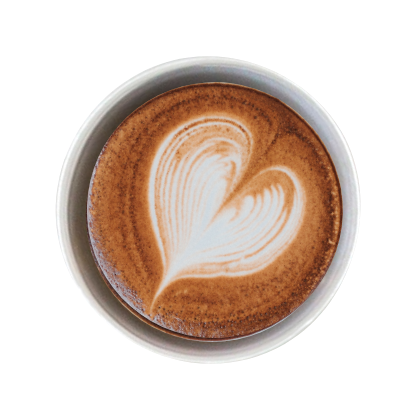
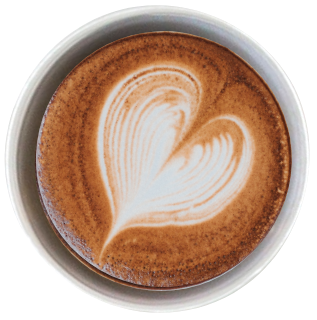
Add image and menu link

diff --git a/about.html b/about.html
@@ -58,32 +58,57 @@
         </div>
       </nav>
     </header>
-    <main class="content container-md px-0">
-      <h1 class="h1 page-title text-center pt-utility-lg py-5">About</h1>
-      <div class="container">
-        <div class="row d-flex justify-content-center ">
-        <div class="video">
-          <video width="100%" height="100%" controls muted>
-            <source src="videos/southbrew.mp4" type="video/mp4">
-            Your browser does not support the video tag.
-          </video>
-        </div>
-      </div>
-        <div class="row d-flex justify-content-center about">
-          <div class="col">
-            <img src="images/location.jpg" alt="Southbrew Coffee Storefront" title="Southbrew Coffee Storefront" id="location">
-          </div>
-          <div class="col">
-            <p class="about-accent">Southbrew is a <span class="accent">local, woman-owned</span> coffee stand and specialty roaster in Huntsville, Alabama.</p>
-            <p class="about-accent">We strive toward <span class="accent">consistency</span> in our products, genuine <span class="accent">connections</span> with our customers, and meaningful <span class="accent">involvement</span> in the Rocket City community. </p>
-            <hr>
-            <div class="highlight">
-              <h3>Genuine Connections</h3>
-              <h3>Consistency in our Products</h3>
-              <h3>Meaningful Involvement</h3>
+    <main>
+      <div class="content container-md px-0">
+        <h1 class="h1 page-title text-center pt-utility-lg py-5">About</h1>
+        <div class="container">
+          <div class="row d-flex justify-content-center ">
+            <div class="video">
+              <video width="100%" height="100%" autoplay controls muted loop>
+                <source src="videos/southbrew.mp4" type="video/mp4">
+                Your browser does not support the video tag.
+              </video>
             </div>
           </div>
+          <div class="row about">
+            <div class="col-sm-12 col-md-6 col-lg-6">
+              <img src="images/location.jpg" alt="Southbrew Coffee Storefront" title="Southbrew Coffee Storefront" id="location">
+            </div>
+            <div class="col-sm-12 col-md-6 col-lg-6">
+              <p class="about-accent">Southbrew is a <span class="accent">local, woman-owned</span> coffee stand and specialty roaster in Huntsville, Alabama.</p>
+              <p class="about-accent">We strive toward <span class="accent">consistency</span> in our products, genuine <span class="accent">connections</span> with our customers, and meaningful <span class="accent">involvement</span> in the Rocket City community. </p>
+              <hr>
+              <div class="highlight">
+                <h3>Genuine Connections</h3>
+                <h3>Consistency in our Products</h3>
+                <h3>Meaningful Involvement</h3>
+              </div>
+            </div>
+          </div>
+        </div>
       </div>
+        <div class="about-menu-link">
+          <div class="d-flex justify-content-center">
+            <div class="row">
+              <div class="col">
+                <h2>Check Out What We're Brewing</h2>
+                <hr>
+                <a href="menu.html" class="btn rounded-pill py-2 border px-5">View Menu</a>
+              </div>
+              <img src="images/coffee_heart.png" alt="Coffee with heart design" title="Coffee with Heart Design" id="coffee-heart">
+            </div>
+          </div>
+        </div>
+      <div class="content container-md px-0">
+        <section class="section--three margin-utility-lg d-none d-md-block">
+          <h2 class="h2 instagram">Instagram <span>@southbrewcoffee</span></h2>
+          <div class="instagram-gallery d-md-flex flex-wrap justify-content-center">
+            <img src="images/ig-photo-1.png" class="padding-utility-ig py-5" alt="">
+            <img src="images/ig-photo-2.png" class="padding-utility-ig py-5" alt="">
+            <img src="images/ig-photo-3.png" class="padding-utility-ig py-5" alt="">
+            <img src="images/ig-photo-4.png" class="padding-utility-ig py-5" alt="">
+          </div>
+        </section>
       </div>
     </main>
     <footer class="footer py-5">

diff --git a/css/pages/about.css b/css/pages/about.css
@@ -3,15 +3,15 @@ div.video {
   height: auto;
   margin-bottom: 50px;
 }
-div.row.d-flex.justify-content-center.about {
+div.row.about {
   margin-bottom: 50px;
 }
-div.row.d-flex.justify-content-center.about p.about-accent {
+div.row.about p.about-accent {
   margin-top: 20px;
   font-size: 20px;
   text-align: center;
 }
-div.row.d-flex.justify-content-center.about hr {
+div.row.about hr {
   height: 3px;
   width: 10%;
   margin: 0 auto;
@@ -19,15 +19,52 @@ div.row.d-flex.justify-content-center.about hr {
   margin-top: 50px;
   background: #C6CDBB;
 }
-div.row.d-flex.justify-content-center.about div.highlight {
+div.row.about div.highlight {
   margin-top: 50px;
   text-align: center;
 }
-div.row.d-flex.justify-content-center.about div.highlight h3 {
+div.row.about div.highlight h3 {
   color: #C97C68;
+}
+div.about-menu-link {
+  width: 100vw;
+  background-color: #EBDED5;
+}
+div.about-menu-link div.d-flex.justify-content-center div.row {
+  margin: 50px 0 40px 0;
+}
+div.about-menu-link div.d-flex.justify-content-center div.row div.col {
+  text-align: center;
+}
+div.about-menu-link div.d-flex.justify-content-center div.row div.col hr {
+  margin: 30px auto;
+  height: 1px;
+  width: 20%;
+  background: #C97C68;
+}
+img#coffee-heart {
+  max-width: 200px;
+  display: none;
+}
+section.section--three.margin-utility-lg.d-none.d-md-block {
+  margin-top: 50px;
+}
+section.section--three.margin-utility-lg.d-none.d-md-block h2.h2.instagram {
+  text-align: center;
+  display: block;
 }
 img#location {
   max-width: 100%;
+}
+@media (min-width: 760px) {
+  img#coffee-heart {
+    display: -webkit-box;
+    display: -ms-flexbox;
+    display: flex;
+    position: relative;
+    -webkit-transform: translateY(100px) translateX(150px);
+            transform: translateY(100px) translateX(150px);
+  }
 }
 @media (min-width: 920px) {
   div.video {

diff --git a/less/pages/about.less b/less/pages/about.less
@@ -4,7 +4,7 @@ div.video {
   margin-bottom: 50px;
 }
 
-div.row.d-flex.justify-content-center.about {
+div.row.about {
   margin-bottom: 50px;
 
   p.about-accent {
@@ -29,8 +29,51 @@ div.row.d-flex.justify-content-center.about {
   }
 }
 
+div.about-menu-link {
+  width: 100vw;
+  background-color: #EBDED5;
+  div.d-flex.justify-content-center {
+    div.row {
+      margin: 50px 0 40px 0;
+      div.col {
+        text-align: center;
+        hr {
+          margin: 30px auto;
+          height: 1px;
+          width: 20%;
+          background: #C97C68;
+        }
+      }
+    }
+  }
+}
+
+img#coffee-heart {
+  max-width: 200px;
+  display: none;
+}
+
+section.section--three.margin-utility-lg.d-none.d-md-block {
+
+  margin-top: 50px;
+
+    h2.h2.instagram{
+      text-align: center;
+      display: block;
+    }
+
+}
+
 img#location {
   max-width: 100%;
+}
+
+@media (min-width: 760px) {
+  img#coffee-heart {
+    display: flex;
+    position: relative;
+    transform: translateY(100px) translateX(150px);
+  }
 }
 
 @media (min-width: 920px) {
@@ -38,6 +81,10 @@ img#location {
     max-width: 900px;
     height: auto;
   }
+}
+
+@media (min-width: 992px) {
+
 }
 
 @media (min-width: 1200px) {
